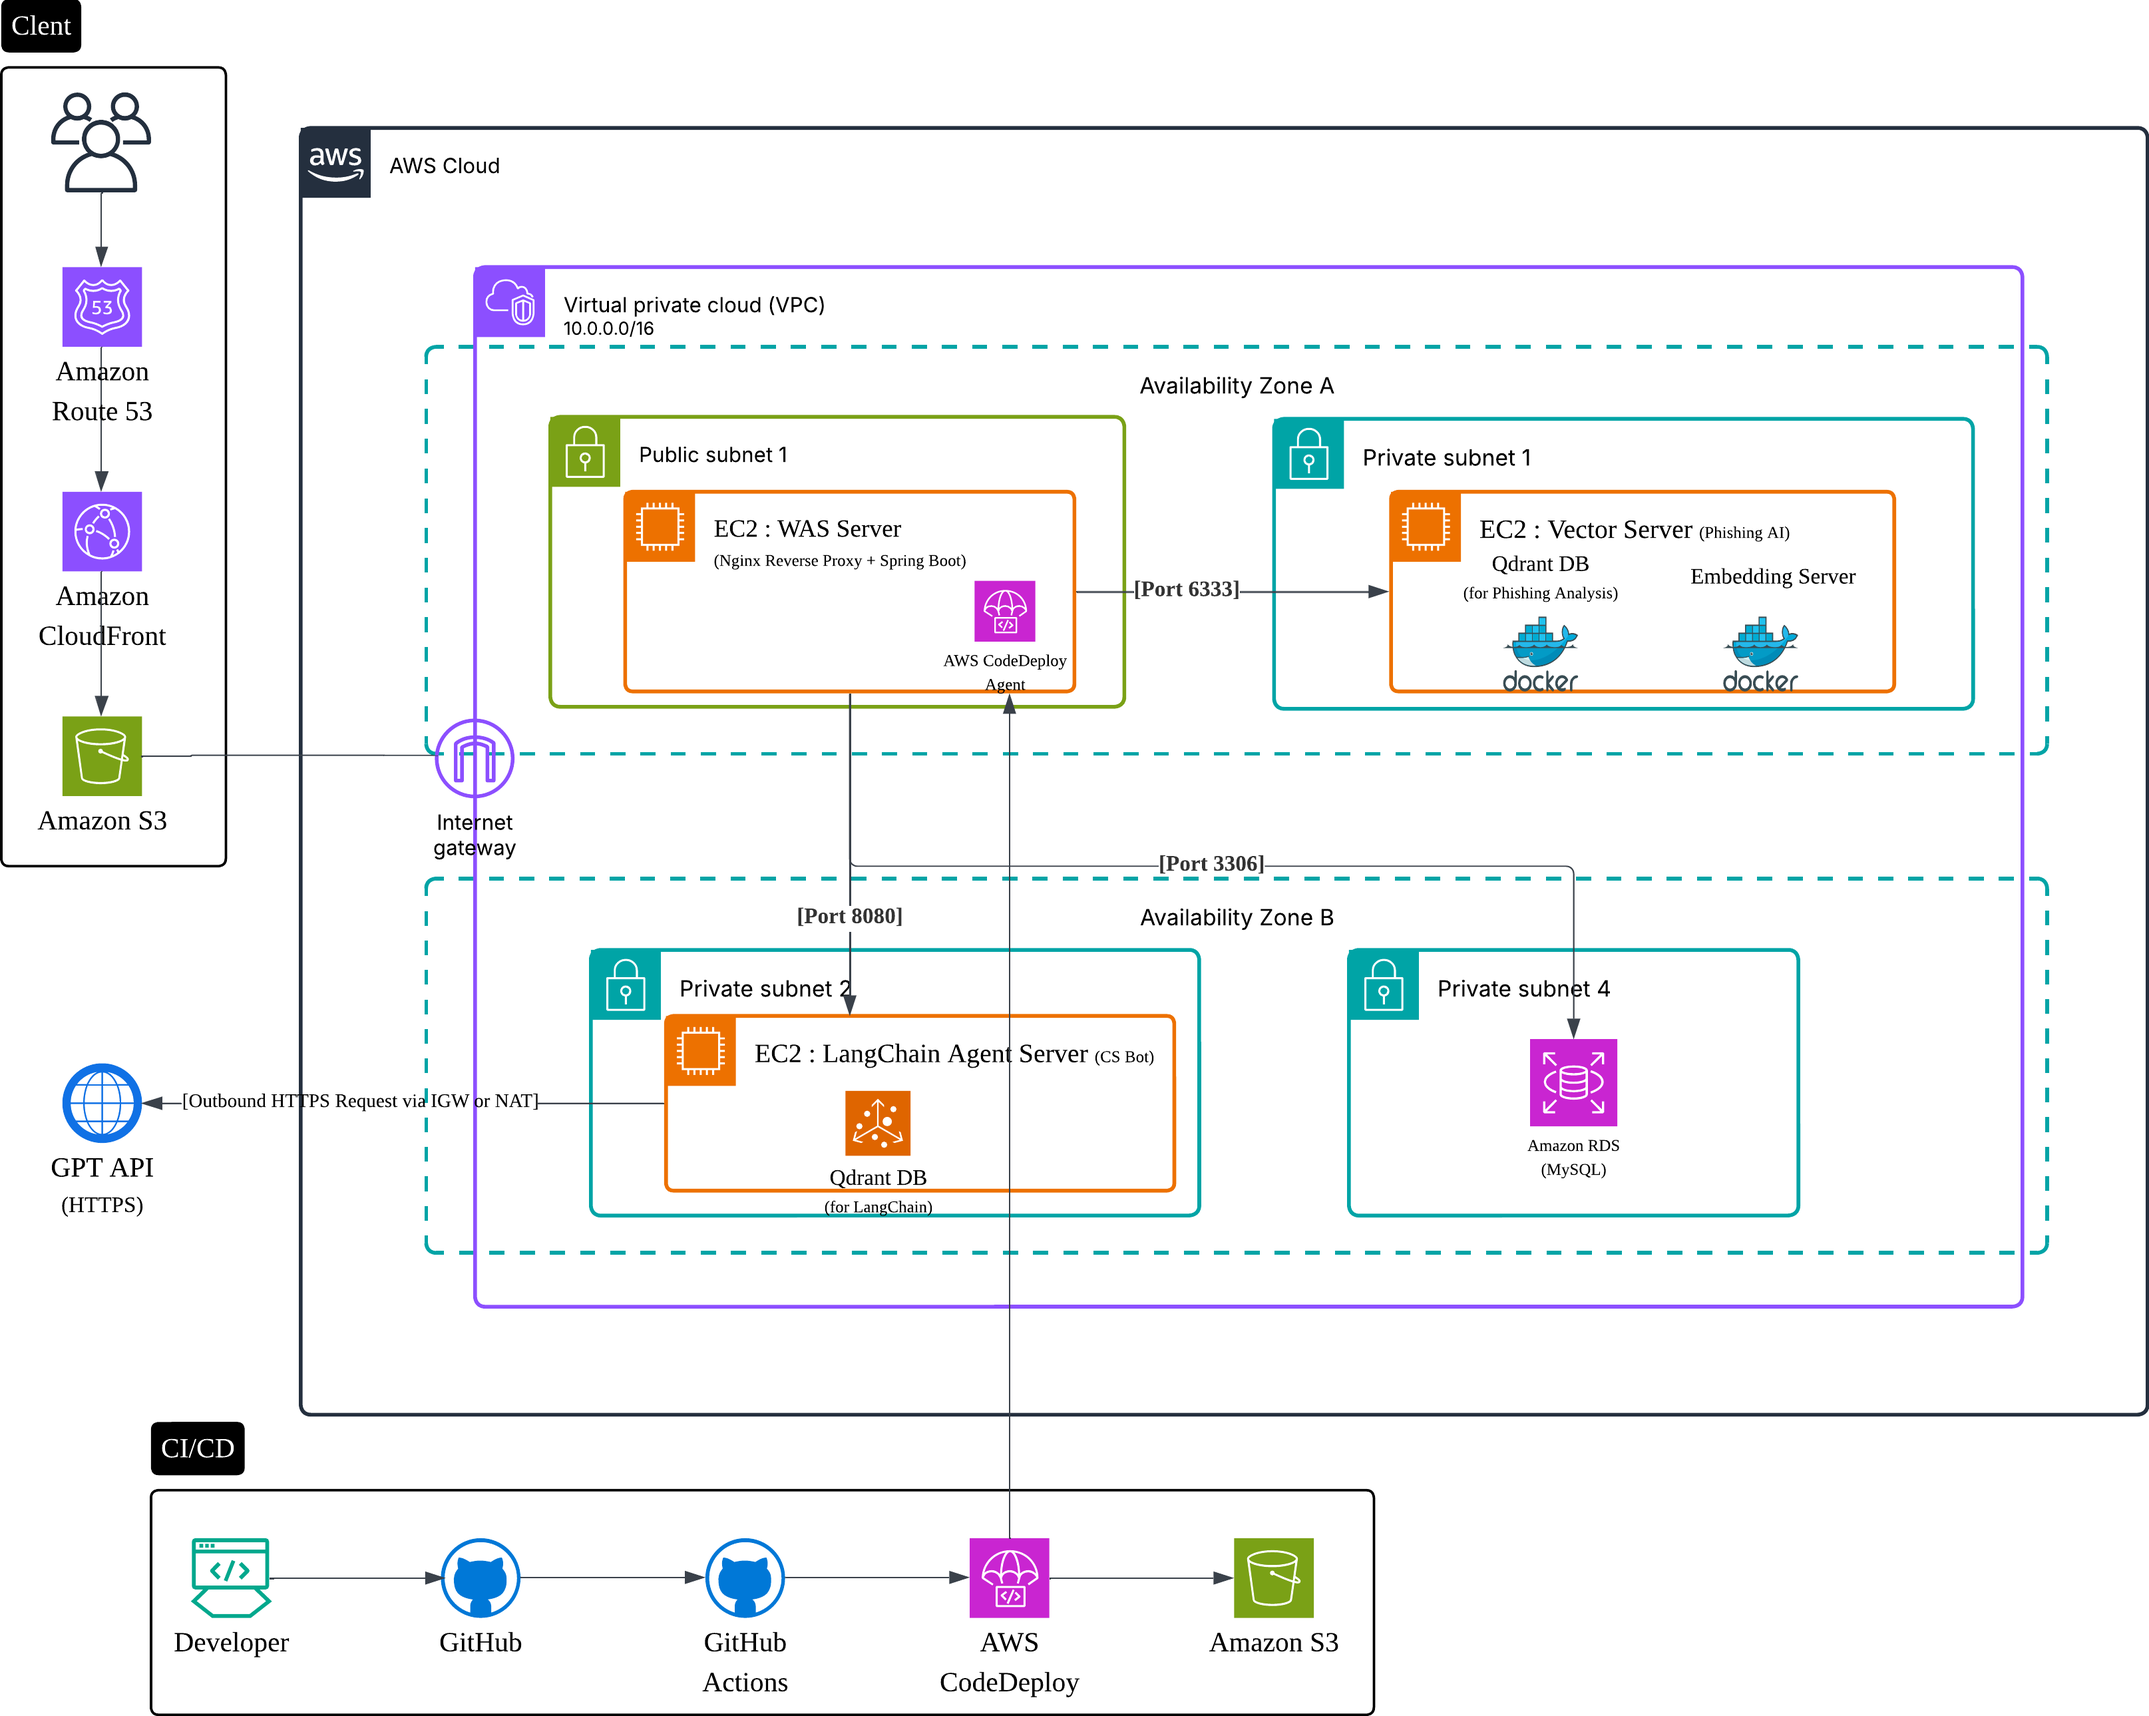
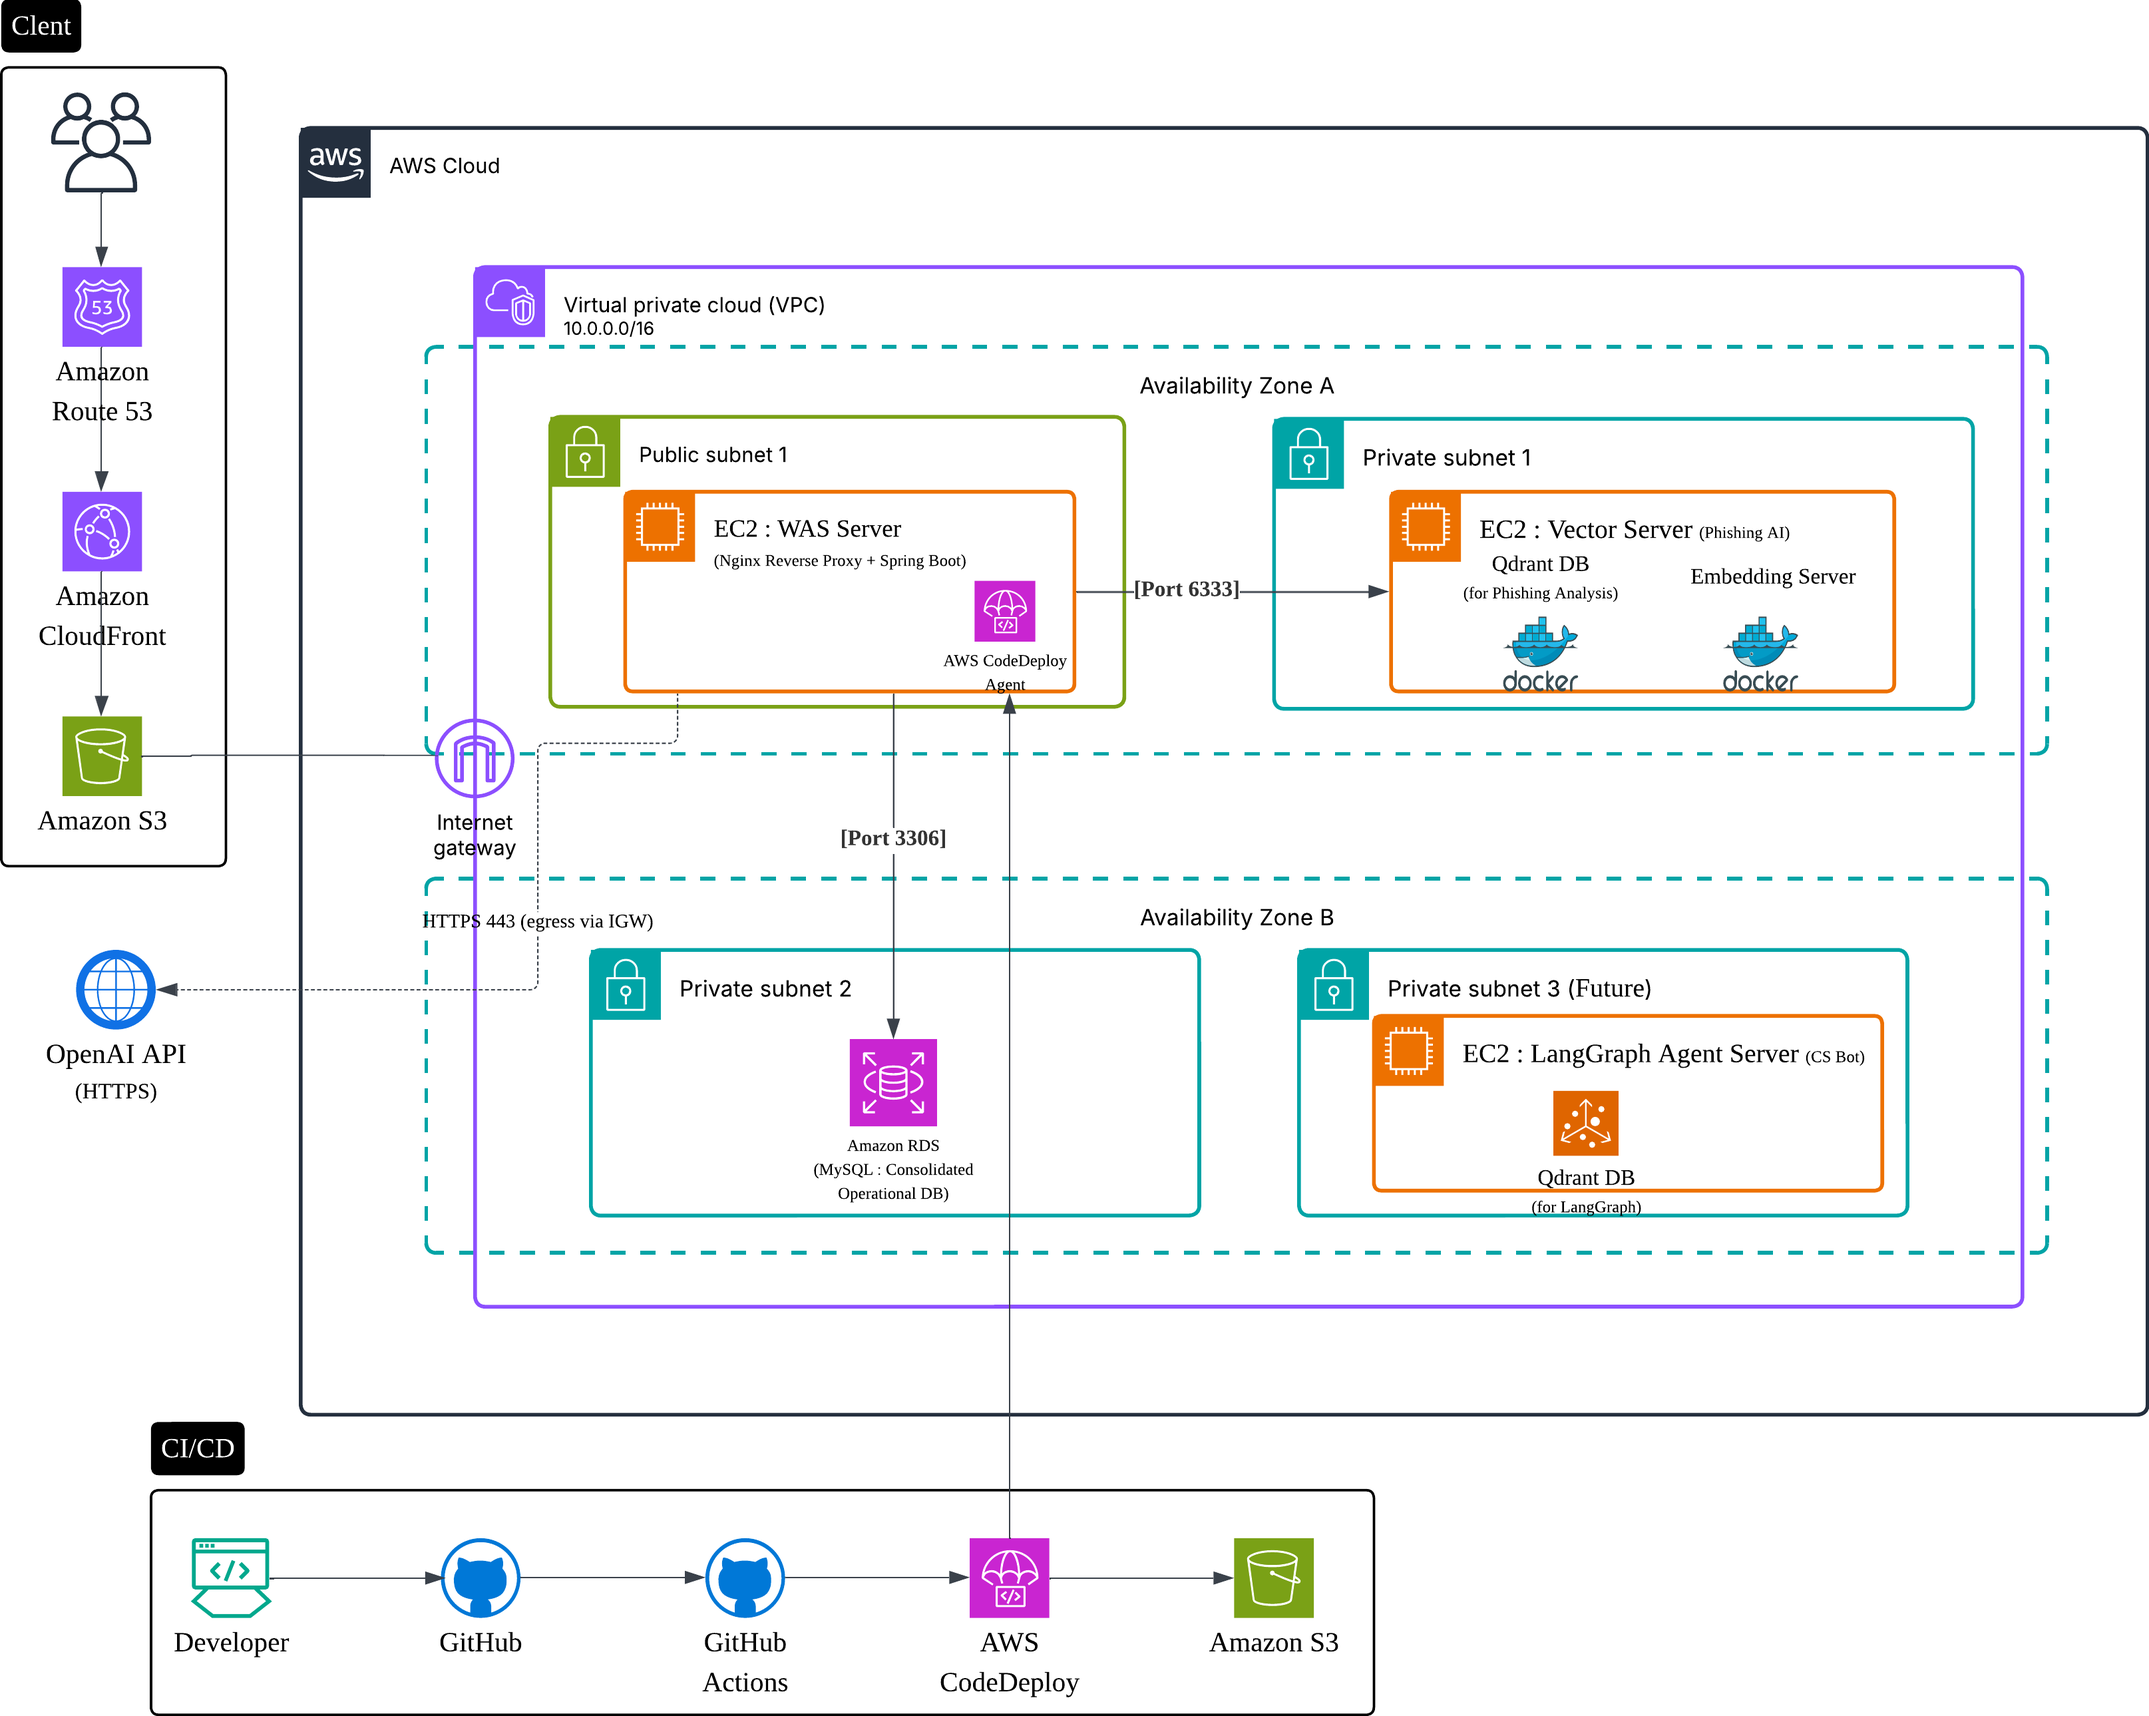
docs: 시스템 아키텍처 다이어그램 수정

diff --git a/architecture.md b/architecture.md
@@ -14,7 +14,7 @@
 
 #### 클라이언트 접근
 - **사용자**: Android/iOS 앱을 통한 접근
-- **DNS & CDN**: Amazon Route 53 + CloudFront
+- **DNS & CDN**: 가비아 DNS + Amazon Route 53 + CloudFront
 - **정적 리소스**: Amazon S3
 
 #### AWS 클라우드 인프라
@@ -25,8 +25,8 @@
 #### 네트워크 구성
 - **Public Subnet 1 (AZ A)**: EC2: WAS 서버 (Nginx + Spring Boot)
 - **Private Subnet 1 (AZ A)**: EC2: Vector 서버 (Phishing AI)
-- **Private Subnet 2 (AZ B)**: EC2: LangChain Agent 서버 (CS Bot)
-- **Private Subnet 4 (AZ B)**: Amazon RDS (MySQL)
+- **Private Subnet 2 (AZ B)**: Amazon RDS (MySQL)
+- **Private Subnet 3 (AZ B)**: EC2: LangGraph Agent 서버 (CS Bot) - 향후 구현 예정
 
 ---
 
@@ -41,7 +41,7 @@
   - AWS CodeDeploy Agent 설치
 - **통신**:
   - Vector 서버 (Port 6333)
-  - LangChain Agent 서버 (Port 8080)
+  - RDS (Port 3306)
 
 ---
 
@@ -50,37 +50,40 @@
 - **구성**:
   - Docker 컨테이너 환경
     - Qdrant DB (for Phishing Analysis)
-    - Embedding Server
+    - Embedding Server (KoSimCSE)
 - **비고**:
   - RDS와 직접 통신하지 않음
+  - 현재 운영 중인 핵심 AI 분석 서버
 
 ---
 
-### 2.3 EC2: LangChain Agent 서버 (Private Subnet 2)
+### 2.3 Amazon RDS (Private Subnet 2)
+- **역할**: 관계형 데이터베이스 (MySQL)
+- **접근**: WAS 서버에서 직접 접근
+- **포트**: 3306
+- **구성**: Single-AZ (현재 부하로 충분)
+
+---
+
+### 2.4 EC2: LangGraph Agent 서버 (Private Subnet 3) - 향후 구현
 - **역할**: CS Bot 처리 서버
 - **포트**: 8080 (내부 호출 전용)
 - **구성**:
-  - Qdrant DB (for LangChain)
+  - Qdrant DB (for LangGraph)
   - GPT API 연동
 - **통신**:
   - RDS (Port 3306)
   - 외부 GPT API (HTTPS)
-
----
-
-### 2.4 Amazon RDS (Private Subnet 4)
-- **역할**: 관계형 데이터베이스 (MySQL)
-- **접근**: LangChain Agent 서버에서만 접근
-- **포트**: 3306
+- **상태**: 현재 미구현, CS 자동화 고도화 시 적용 예정
 
 ---
 
 ## 3. 외부 API 통합
 
-### 3.1 GPT API (HTTPS)
-- **요청 주체**: LangChain Agent 서버
-- **용도**: CS Bot 자연어 처리 (GPT 기반)
-- **통신 방식**: Outbound HTTPS via IGW or NAT
+### 3.1 OpenAI API (HTTPS)
+- **요청 주체**: WAS 서버 (Spring Boot)
+- **용도**: AI 검증 및 품질 평가 (Graph-based state machine 3단계)
+- **통신 방식**: Outbound HTTPS via IGW
 
 ---
 
@@ -107,7 +110,7 @@
 
 ### 5.2 애플리케이션 보안
 - **JWT 토큰**: API 기반 사용자 인증
-- **OAuth**: Kakao, Apple 소셜 로그인 (Native SDK 기반)
+- **Native SDK**: Kakao, Apple 소셜 로그인
 - **HTTPS**: 모든 외부 통신 암호화
 
 ---
@@ -115,67 +118,96 @@
 ## 6. 데이터 플로우
 
 ### 6.1 일반 요청 흐름
-- Client → Route 53 → CloudFront → S3
-- S3 → IGW → EC2 WAS Server
-- WAS Server → Vector Server (Port 6333)
+- Client → 가비아 DNS → Route 53 → CloudFront → S3
+  - 정적 콘텐츠: Client → Route 53/CloudFront → S3
+  - 동적 API: Client → Route 53 (또는 도메인) → EC2 WAS (HTTPS)
+- WAS Server → Vector Server (Port 6333) - AI 분석
+- WAS Server → RDS (Port 3306) - 데이터 저장/조회
 
-### 6.2 CS Bot 요청 흐름
-- Client → IGW → LangChain Agent Server (Port 8080)
-- LangChain Agent → RDS (Port 3306)
-- LangChain Agent → Qdrant (Local)
-- LangChain Agent → GPT API (HTTPS)
+### 6.2 AI 분석 워크플로우 (현재 운영 중)
+- 사용자 입력 → WAS Server → Vector Server
+- Vector Server → KoSimCSE 임베딩 → Qdrant 벡터검색
+- **Graph-based state machine (LangGraph-inspired)**: 5단계 상태 기반 분석 파이프라인
+  - 입력검증 → 벡터검색 → AI검증 → 품질평가 → 결과분석
+- 필요 시 OpenAI API 호출 (품질 평가) - WAS 서버에서 직접 호출
+- 결과 분석 및 위험도 판정
+
+### 6.3 CS Bot 요청 흐름 (향후 구현)
+- Client → IGW → LangGraph Agent Server (Port 8080)
+- LangGraph Agent → RDS (Port 3306)
+- LangGraph Agent → Qdrant (Local)
+- LangGraph Agent → OpenAI API (HTTPS)
 
 ---
 
 ## 7. 확장성 및 고가용성
 
-### 7.1 다중 가용영역 구성
+### 7.1 현재 구현된 구성
 - **AZ A**: WAS 서버, Vector 서버
-- **AZ B**: LangChain Agent 서버, RDS
-- **RDS**: Multi-AZ 설정
+- **AZ B**: RDS (MySQL)
+- **RDS**: Single-AZ 설정 (현재 부하로 충분)
+- **다중 AZ**: 기본적인 가용성 보장
 
-### 7.2 자동 확장 구성 (설계 고려)
-- Auto Scaling Groups
-- Application Load Balancer (ALB)
-- RDS Read Replicas
+### 7.2 향후 확장 계획 (필요 시)
+- **Auto Scaling Groups**: 트래픽 증가 시 자동 확장
+- **RDS Read Replicas**: 읽기 부하 분산 및 가용성 향상
+- **Application Load Balancer (ALB)**: 다중 서버 환경 대응
+- **Multi-AZ RDS**: 고가용성 강화
 
 ---
 
 ## 8. 모니터링 및 운영
 
-### 8.1 AWS 모니터링
-- **CloudWatch**: 지표 수집
-- **CloudWatch Logs**: 애플리케이션 로그
-- **CloudWatch Alarms**: 이상 징후 알림
+### 8.1 현재 모니터링 (자체 로그 기반)
+- **Spring Boot 내장 로깅**: 애플리케이션 로그
+- **파일 기반 로그 관리**: 로그 파일 저장 및 관리
+- **기본 모니터링**: 서버 상태 및 애플리케이션 동작 확인
 
-### 8.2 운영 도구
-- **LangGraph**: CS 자동화
-- **MCP**: 실시간 인프라 모니터링
-- **Jira**: 이슈 관리
+### 8.2 향후 확장 계획 (CloudWatch 연동)
+- **CloudWatch Logs**: Spring Boot 로그와 연동 가능
+- **CloudWatch Metrics**: 시스템 지표 수집
+- **CloudWatch Alarms**: 이상 징후 알림
+- **확장성**: Spring Boot Actuator 기반으로 CloudWatch 연동 준비됨
+
+### 8.3 운영 도구 (향후 CS 자동화 시 적용 예정)
+- LangGraph, MCP, Jira : CS 자동화 워크플로우 엔진 (구현 예정)
 
 ---
 
 ## 9. 기술 스택
 
 ### 9.1 백엔드
-- Spring Boot
-- FastAPI (Embedding Server)
-- Nginx (Reverse Proxy)
+- **Spring Boot 3.3.1**: 메인 애플리케이션 서버
+- **FastAPI**: AI 임베딩 서버 (KoSimCSE)
+- **Nginx**: Reverse Proxy
 
 ### 9.2 데이터베이스
-- MySQL (RDS)
-- Qdrant (Vector DB)
+- **MySQL 8.0**: Amazon RDS (메인 운영 DB)
+- **Qdrant**: Vector DB (피싱 사례 임베딩)
 
 ### 9.3 AI/ML
-- KoSimCSE (임베딩 모델)
-- GPT API (LLM 기반 자연어 처리)
+- **KoSimCSE**: 한국어 특화 문장 임베딩 모델
+- **OpenAI GPT API**: AI 검증 및 품질 평가
+- **Graph-based state machine**: LangGraph 영감을 받은 상태 기반 워크플로우 (현재 AI 분석에 적용)
 
 ### 9.4 인프라
-- AWS EC2 / RDS / S3 / CloudFront / Route 53
+- **AWS**: EC2, RDS, S3, CloudFront, Route 53
+- **Docker**: 컨테이너화 환경
+- **CI/CD**: GitHub Actions + AWS CodeDeploy
 
 ---
 
 ## 📌 요약
 
-이 아키텍처는 확장 가능하고 안전한 AWS 기반 클라우드 시스템으로,  
-**피싱 탐지 AI 분석**과 **CS 자동화 기능**을 제공하는 CheatKey 서비스의 핵심 인프라입니다.
+이 아키텍처는 **현재 운영 중인 피싱 탐지 AI 분석 시스템**을 기반으로 하며,  
+**향후 CS 자동화 기능 확장**을 고려한 확장 가능한 AWS 기반 클라우드 시스템입니다.
+
+### 현재 상태
+- ✅ **AI 기반 피싱 탐지**: Graph-based state machine (LangGraph-inspired) 5단계 워크플로우로 운영 중
+- ✅ **기본 인프라**: VPC, EC2, RDS, S3 구성 완료
+- ✅ **CI/CD 파이프라인**: GitHub Actions + CodeDeploy 구축
+
+### 향후 계획
+- 🔄 **CS 자동화**: LangGraph 기반 고도화 진행 중
+- 🔄 **모니터링 강화**: CloudWatch 연동 검토 중
+- 🔄 **확장성 개선**: Auto Scaling, Read Replicas 등 필요 시 적용
